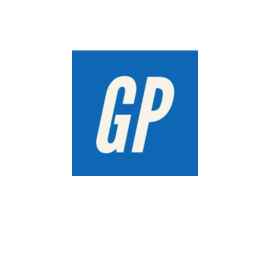
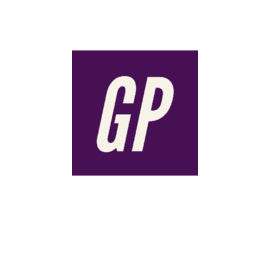
change color theme

Changed region(s): [[0.2667, 0.1778, 0.7407, 0.6519]]

diff --git a/src/index.css b/src/index.css
@@ -8,12 +8,12 @@
   --bp-small: 37.5em; /* 715px */
   --bp-smallest: 31.25em; /* 600px */
   
-  --primary: rgb(41, 141, 235);
-  --primary-light: rgb(37,157,242);
-  --secondary: rgb(93,180,242);	
-  --secondary-light: rgb(154,208,245);
-  --secondary-light-tr: rgba(154, 209, 245, 0.904);
-  --secondary-light-2: rgb(182, 222, 248);
+  --primary: rgb(71, 16, 84);
+  --primary-light: #622870;
+  --secondary: #7f488c;	
+  --secondary-light: rgb(159, 114, 168);
+  --secondary-light-tr: rgba(159, 114, 168, 0.904);
+  --secondary-light-2: #b68abe;
 
   --white-1: rgb(250, 250, 250);
   --white-2: rgb(247, 247, 247);
@@ -29,7 +29,8 @@
   --gray-4:  rgba(207, 207, 207, 0.534);
   --gray-5:  rgb(170, 170, 170);
 
-  --green-1: rgb(72, 180, 78);
+  --green-1: rgb(59, 148, 64);
+  --green-1-light: rgb(131, 209, 135);
 
   --red-1: #b84a39;
   --red-2: #fff4f5;

diff --git a/src/products/ProductsTable.js b/src/products/ProductsTable.js
@@ -562,9 +562,11 @@ const ProductsTable = (props) => {
                             </div>
                           )}
                           {cell.column.Header === 'GTIN' && (
-                            <Link to={`/products/${cell.value}`}>
-                              {cell.value}
-                            </Link>
+                            <span className={classes['item-link']}>
+                              <Link to={`/products/${cell.value}`}>
+                                {cell.value}
+                              </Link>
+                            </span>
                           )}
                           {cell.column.Header === 'Type' && type.name}
                           {cell.column.Header === 'Category' && category.name}

diff --git a/src/shared/Navigation/MainHeader.js b/src/shared/Navigation/MainHeader.js
@@ -13,7 +13,7 @@ const MainHeader = (props) => {
           <Logo />
         </div>
         <h1 className={classes['header-title']}>
-          <Link to="/">GDSN-Plus</Link>
+          <Link to="/">GDSN-Plus SQL</Link>
         </h1>
         <nav className={classes['header-nav']}>
           <NavLinks />

diff --git a/src/products/ProductsTable.module.css b/src/products/ProductsTable.module.css
@@ -18,6 +18,14 @@ input {
   width: 30%;
 }
 
+.item-link a:link,
+.item-link a:active,
+.item-link a:visited,
+.item-link a:hover {
+  color: var(--secondary);
+  text-decoration: none;
+}
+
 .headers {
   font-size: 1.2rem;
   background-color: var(--secondary-light);

diff --git a/src/products/ProductsPage.module.css b/src/products/ProductsPage.module.css
@@ -33,6 +33,9 @@
 .productCards a:hover div {
   background: var(--secondary-light);
 }
+.productCards a:hover span {
+  color: var(--green-1-light);
+}
 
 .productCards a:hover h3 {
   color: var(--white-3);
